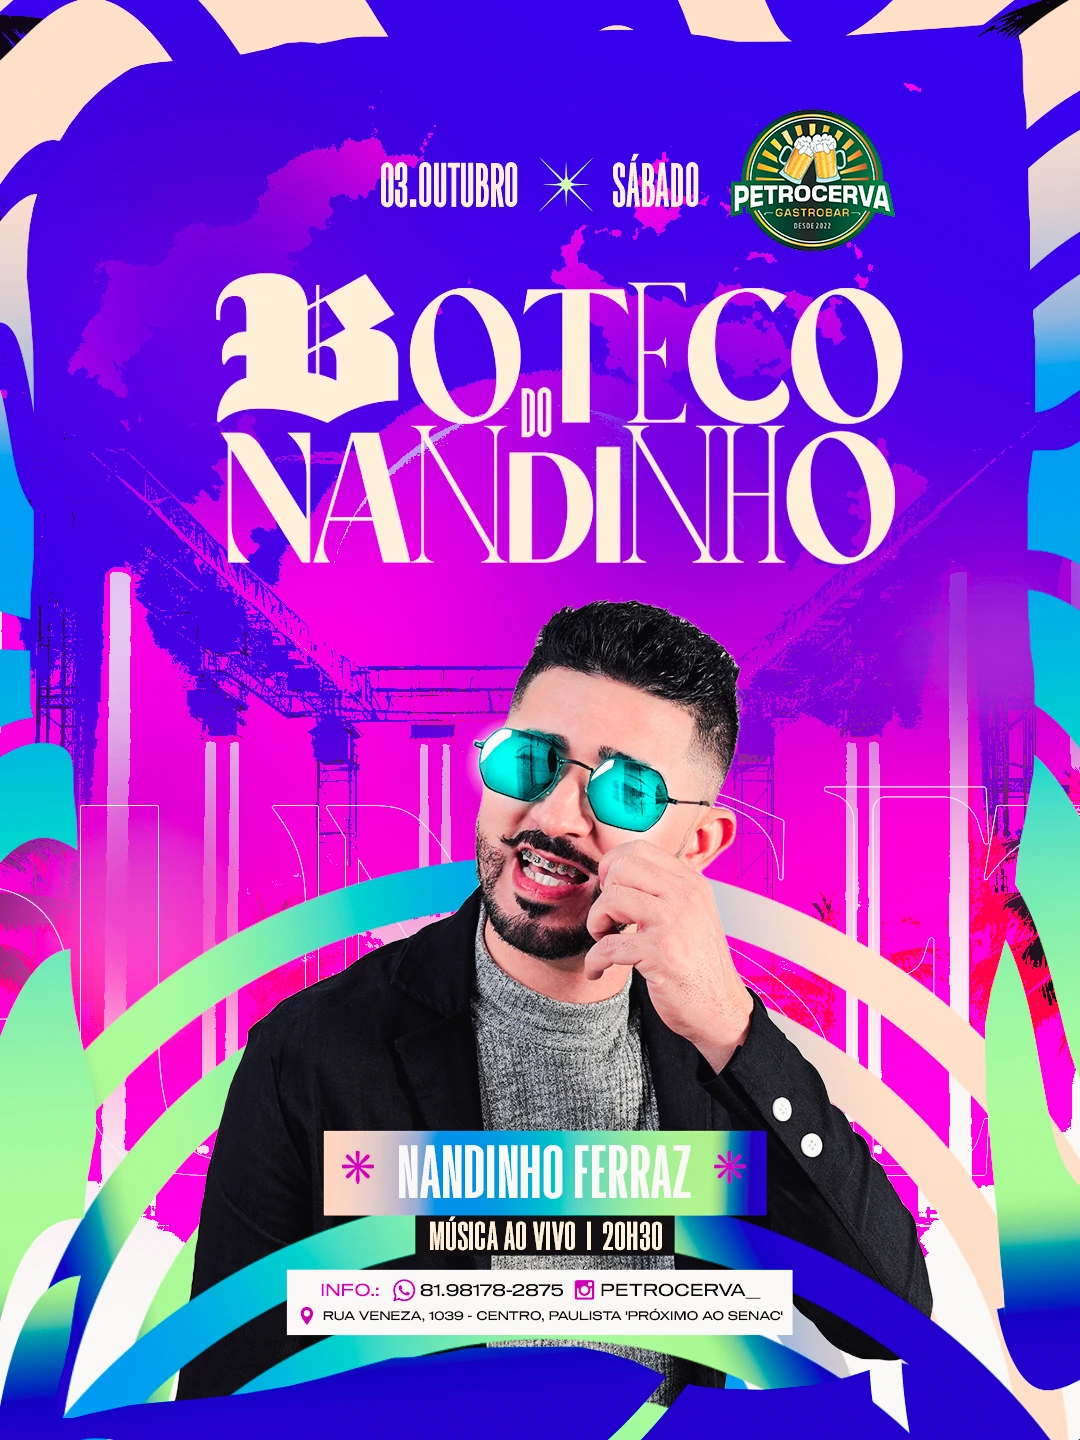
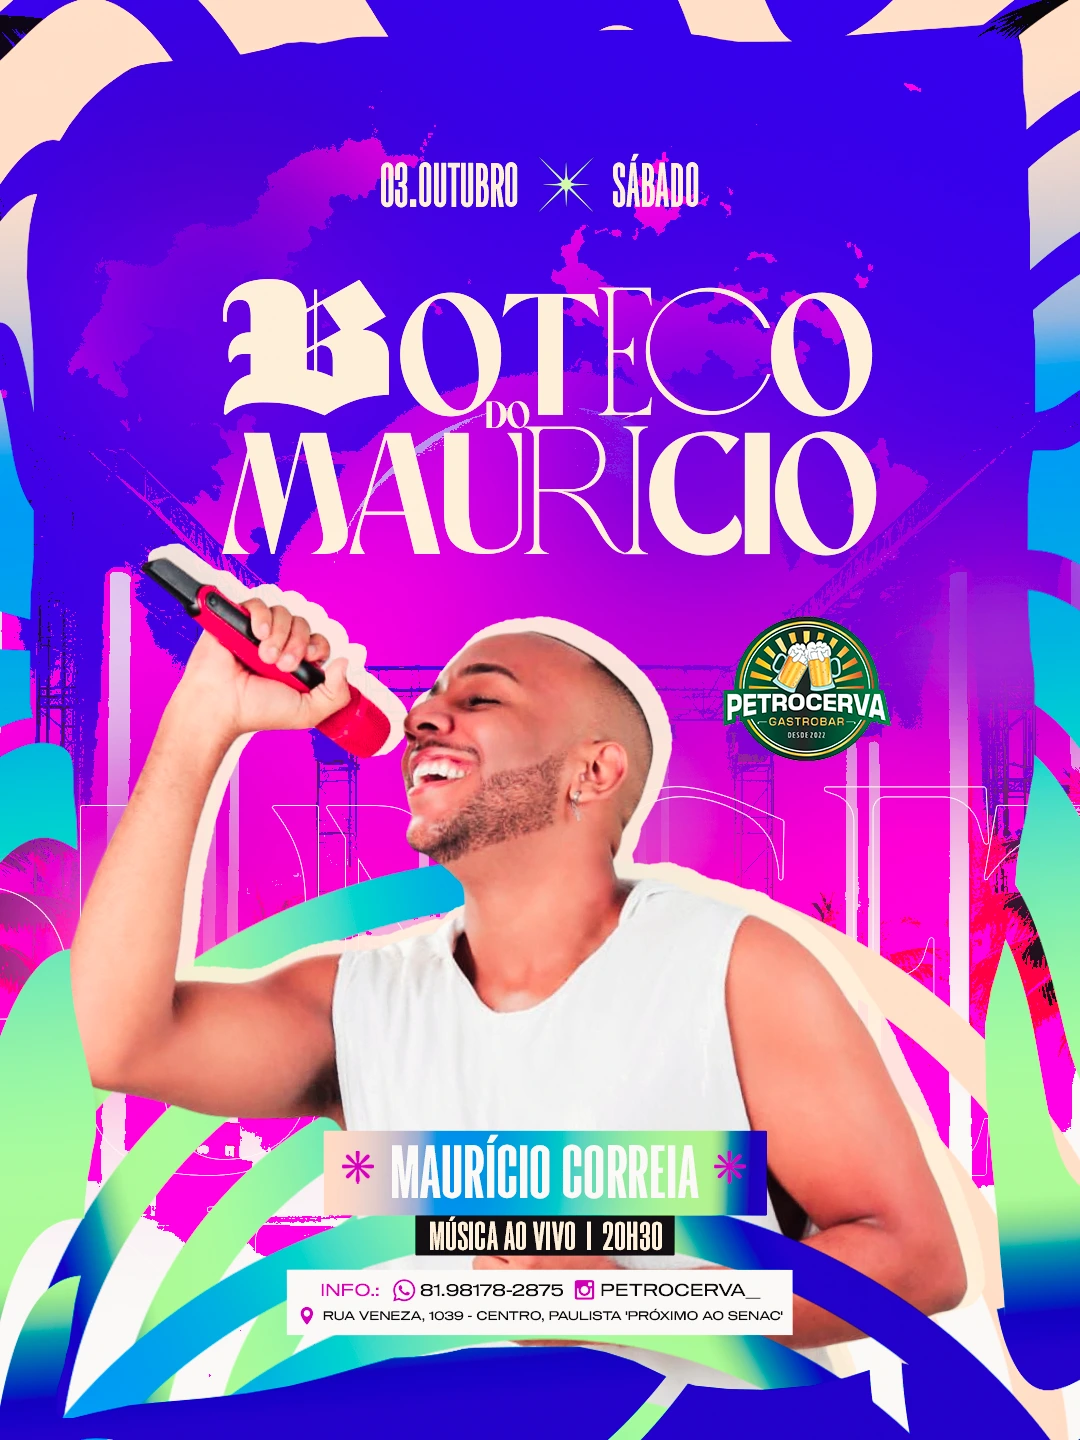
feat: atualizar informações do Boteco do Maurício na programação

diff --git a/index.html b/index.html
@@ -236,7 +236,7 @@
                   <article class="atracao">
                     <div class="atracao__moldura-imagem">
                       <img class="atracao__imagem" src="src/img/programacao-sab.webp"
-                        alt="Cartaz do Boteco do Nandinho com Nandinho Ferraz, sábado 3 de outubro às 20h30 no Petrocerva Gastrobar"
+                        alt="Cartaz do Boteco do Maurício com Maurício Correia, sábado 3 de outubro às 20h30 no Petrocerva Gastrobar"
                         width="1080" height="1440" loading="lazy">
 
                       <button type="button"
@@ -259,14 +259,14 @@
                     </div>
                     <div class="atracao__informacoes">
                       <p class="atracao__data">Sábado · 3 de outubro</p>
-                      <h3 class="atracao__evento">BOTECO DO NANDINHO</h3>
-                      <p class="atracao__artista">Nandinho Ferraz</p>
+                      <h3 class="atracao__evento">BOTECO DO MAURÍCIO</h3>
+                      <p class="atracao__artista">Maurício Correia</p>
                       <div class="atracao__meta">
                         <p class="atracao__horario">20h30</p>
                         <span class="atracao__tema">Música ao vivo</span>
                       </div>
                       <a class="atracao__botao-whatsapp"
-                        href="https://wa.me/5581981782875?text=Ol%C3%A1!%20Quero%20saber%20mais%20sobre%20o%20Boteco%20do%20Nandinho%20com%20Nandinho%20Ferraz%20na%20Petrocerva."
+                        href="https://wa.me/5581981782875?text=Ol%C3%A1!%20Quero%20saber%20mais%20sobre%20o%20Boteco%20do%20Maur%C3%ADcio%20com%20Maur%C3%ADcio%20Correia%20na%20Petrocerva."
                         target="_blank" rel="noopener noreferrer">Falar no WhatsApp</a>
                     </div>
                   </article>

diff --git a/programacao.html b/programacao.html
@@ -78,19 +78,19 @@
               aria-label="2 de 3" aria-hidden="true">
               <button type="button" class="slide__figura" data-ampliar aria-haspopup="dialog">
                 <img src="src/img/programacao-sab.webp"
-                  alt="Cartaz do Boteco do Nandinho com Nandinho Ferraz, sábado 3 de outubro às 20h30 no Petrocerva Gastrobar"
+                  alt="Cartaz do Boteco do Maurício com Maurício Correia, sábado 3 de outubro às 20h30 no Petrocerva Gastrobar"
                   width="1080" height="1440" draggable="false" loading="lazy" decoding="async">
               </button>
               <div class="slide__info">
                 <p class="slide__dia">Sábado · 3 de outubro</p>
-                <p class="slide__evento">BOTECO DO NANDINHO</p>
-                <p class="slide__artista">Nandinho Ferraz</p>
+                <p class="slide__evento">BOTECO DO MAURÍCIO</p>
+                <p class="slide__artista">Maurício Correia</p>
                 <div class="slide__meta">
                   <p class="slide__horario">20h30</p>
                   <span class="slide__tema">Música ao vivo</span>
                 </div>
                 <a class="slide__cta"
-                  href="https://wa.me/5581981782875?text=Ol%C3%A1!%20Quero%20saber%20mais%20sobre%20o%20Boteco%20do%20Nandinho%20com%20Nandinho%20Ferraz%20na%20Petrocerva."
+                  href="https://wa.me/5581981782875?text=Ol%C3%A1!%20Quero%20saber%20mais%20sobre%20o%20Boteco%20do%20Maur%C3%ADcio%20com%20Maur%C3%ADcio%20Correia%20na%20Petrocerva."
                   target="_blank" rel="noopener noreferrer">
                   <svg class="slide__cta-icone" width="20" height="20" viewBox="0 0 32 32" aria-hidden="true">
                     <path
